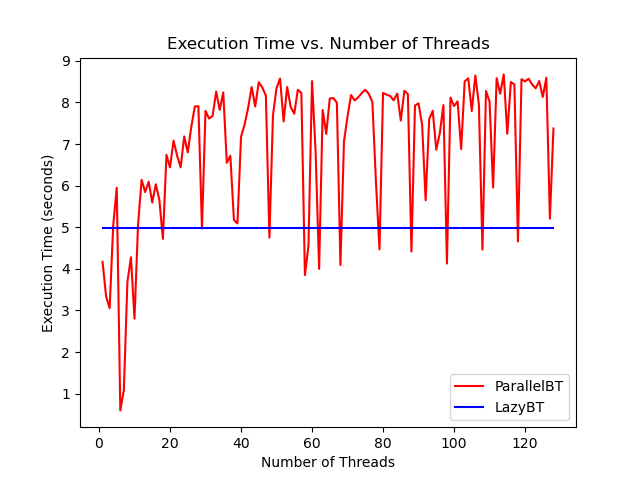
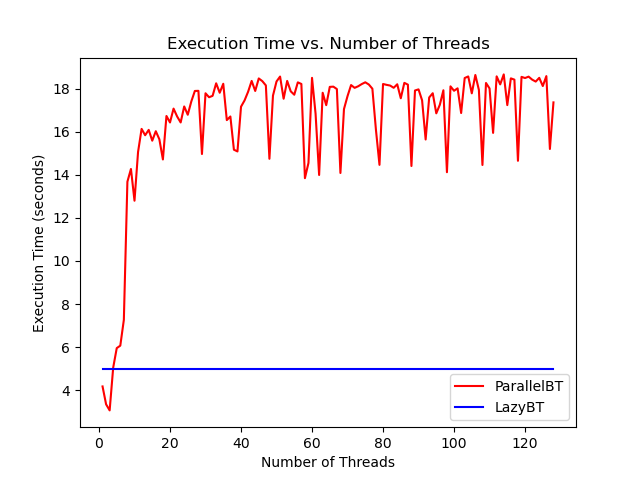
fix a bug of figure drawing

diff --git a/draw_exp_result.py b/draw_exp_result.py
@@ -13,10 +13,11 @@ with open("log.tmp", "r") as f:
                 sample_id = 1
                 Index += 1
             # Get min, most similar to the real time without system scheduling
+            run_time = float(line.split('m')[1][:-2])
             if Index == 128:
-                Y_lazy = min(Y_lazy, float(line[-7:-2]))
+                Y_lazy = min(Y_lazy, run_time)
             else:
-                Y_parallel[Index] = min(Y_parallel[Index], float(line[-7:-2]))
+                Y_parallel[Index] = min(Y_parallel[Index], run_time)
 
 
 plt.plot(X, Y_parallel, color='r', label='ParallelBT')
